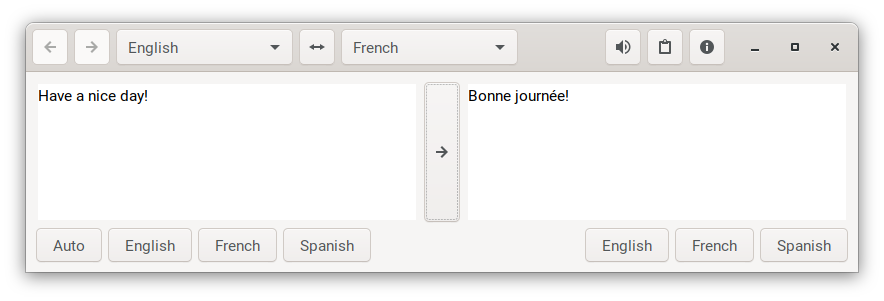
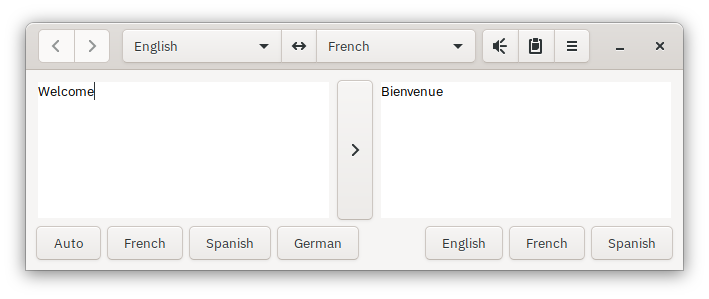
Many improvements, fixes, etc
- ButtonBoxes where appropriate
- Better widget positioning in HeaderBar
- About dialog is now a proper modal window
- Made Gnabel a proper GtkApplication
- PopoverMenu to replace current About button and follow GNOME HIG
- Fix icons again
- Remove deprecated VBoxes and HBoxes, replaced by Boxes
- Fix translation button sensitivity issue
- Add description in about window
- Some code in preparation for more

Changed region(s): [[0.0, 0.0903, 0.9929, 0.903], [0.4654, 0.3913, 0.5275, 0.6923], [0.4654, 0.2709, 0.6516, 0.3612]]

diff --git a/src/gnabel.py b/src/gnabel.py
@@ -8,7 +8,8 @@ from io import BytesIO
 
 import gi
 gi.require_version("Gtk", "3.0")
-from gi.repository import Gtk, Gdk, GLib
+gi.require_version("Gdk", "3.0")
+from gi.repository import Gio, GLib, Gdk, Gtk
 
 from googletrans import LANGUAGES, Translator
 from gtts import gTTS, lang
@@ -24,6 +25,25 @@ ButtonLength = 65  # length of language buttons
 ButtonNumLanguages = 3  # number of language buttons
 XdgConfigHome = GLib.get_user_config_dir()
 SettingsFile = os.path.join(XdgConfigHome, 'gnabel', 'settings.json')
+
+MenuBuilder = """
+<?xml version="1.0" encoding="UTF-8"?>
+<interface>
+    <menu id="app-menu">
+        <section>
+            <attribute name="id">help-section</attribute>
+            <item>
+                <attribute name="label" translatable="yes">About</attribute>
+                <attribute name="action">app.about</attribute>
+            </item>
+            <item>
+                <attribute name="label" translatable="yes">Quit</attribute>
+                <attribute name="action">app.quit</attribute>
+            </item>
+        </section>
+    </menu>
+</interface>
+"""
 
 
 # Main part
@@ -61,15 +81,16 @@ class MainWindow(Gtk.ApplicationWindow):
                 json.dump(Settings, outfile, indent=2)
 
     # Mount everything
-    def __init__(self):
+    def __init__(self, app):
         self.Translator = Translator()
-        Gtk.Window.__init__(self, title="GTranslate")
+        Gtk.Window.__init__(self, title="Gnabel", application=app)
         self.Clipboard = Gtk.Clipboard.get(Gdk.SELECTION_CLIPBOARD)  # This is only for the Clipboard button
         self.set_border_width(10)
         self.set_default_size(400, 200)
+        self.set_icon_name("com.github.gi-lom.gnabel")
 
-        MainWindow.Header(self)
-        MainWindow.Window(self)
+        self.Header()
+        self.Window()
 
         # Languages available for speech
         try:
@@ -92,8 +113,9 @@ class MainWindow(Gtk.ApplicationWindow):
         self.set_titlebar(HeaderBar)
 
         # Boxes creation
-        HeaderBox = Gtk.HBox(spacing=6)
-        OptionsBox = Gtk.HBox(spacing=6)
+        HeaderBox = Gtk.Box(spacing=6, orientation=Gtk.Orientation.HORIZONTAL)
+        OptionsBox = Gtk.ButtonBox(orientation=Gtk.Orientation.HORIZONTAL)
+        OptionsBox.set_layout(Gtk.ButtonBoxStyle.EXPAND)
 
         HeaderBar.pack_start(HeaderBox)
         HeaderBar.pack_end(OptionsBox)
@@ -110,6 +132,12 @@ class MainWindow(Gtk.ApplicationWindow):
         self.Forward.set_tooltip_text("Next translation")
         self.Forward.set_sensitive(False)
         self.Forward.connect("clicked", self.UIForward)
+
+        ### Button box for history navigation buttons
+        HistoryButtonBox = Gtk.ButtonBox(orientation=Gtk.Orientation.HORIZONTAL)
+        HistoryButtonBox.set_layout(Gtk.ButtonBoxStyle.EXPAND)
+        HistoryButtonBox.pack_start(self.Return, True, True, 0)
+        HistoryButtonBox.pack_start(self.Forward, True, True, 0)
 
         ### First language
         FirstLanguageList = Gtk.ListStore(str)
@@ -139,6 +167,14 @@ class MainWindow(Gtk.ApplicationWindow):
         self.SecondLanguageCombo.set_active(self.LangCode.index(self.Settings['Languages'][1][0]))
         self.SecondLanguageCombo.connect("changed", self.HistoryRightLanUpdate)
 
+        ### Button box for history navigation buttons
+        LanguageButtonBox = Gtk.ButtonBox(orientation=Gtk.Orientation.HORIZONTAL)
+        LanguageButtonBox.set_layout(Gtk.ButtonBoxStyle.EXPAND)
+        LanguageButtonBox.set_homogeneous(False)
+        LanguageButtonBox.pack_start(self.FirstLanguageCombo, True, True, 0)
+        LanguageButtonBox.pack_start(Switch, True, False, 0)
+        LanguageButtonBox.pack_start(self.SecondLanguageCombo, True, True, 0)
+
         ### Voice
         Voice = Gtk.Button.new_from_icon_name("audio-speakers-symbolic", Gtk.IconSize.BUTTON)
         Voice.set_tooltip_text("Reproduce")
@@ -149,38 +185,40 @@ class MainWindow(Gtk.ApplicationWindow):
         ClipboardButton.set_tooltip_text("Copy to Clipboard")
         ClipboardButton.connect("clicked", self.UIPaperclip)
 
-        ### About button
-        About = Gtk.Button.new_from_icon_name("help-about-symbolic", Gtk.IconSize.BUTTON)
-        About.set_tooltip_text("About")
-        About.connect("clicked", self.UIAbout)
+        ### Menu button
+        Builder = Gtk.Builder.new_from_string(MenuBuilder, -1) 
+        Menu = Builder.get_object("app-menu")
+        MenuButton = Gtk.MenuButton()
+        MenuButton.set_direction(Gtk.ArrowType.NONE)
+        MenuPopover = Gtk.Popover.new_from_model(MenuButton, Menu)
+        MenuButton.set_popover(MenuPopover)
 
         # Mount buttons
         ### Left side
-        HeaderBox.pack_start(self.Return, True, True, 0)
-        HeaderBox.pack_start(self.Forward, True, True, 0)
-        HeaderBar.pack_start(self.FirstLanguageCombo)
-        HeaderBar.pack_start(Switch)
-        HeaderBar.pack_start(self.SecondLanguageCombo)
+        HeaderBar.pack_start(HistoryButtonBox)
+
+        ### Center
+        HeaderBar.set_custom_title(LanguageButtonBox)
 
         ### Right side
         OptionsBox.pack_start(Voice, True, True, 0)
         OptionsBox.pack_start(ClipboardButton, True, True, 0)
-        OptionsBox.pack_start(About, True, True, 0)
+        OptionsBox.pack_start(MenuButton, True, True, 0)
 
     # Window
     def Window(self):
         # Boxes
-        Box = Gtk.VBox(spacing=6)
+        Box = Gtk.Box(spacing=6, orientation=Gtk.Orientation.VERTICAL)
         self.add(Box)
 
-        UpperBox = Gtk.HBox(spacing=6)
-        LowerBox = Gtk.HBox(spacing=6)
+        UpperBox = Gtk.Box(spacing=6, orientation=Gtk.Orientation.HORIZONTAL)
+        LowerBox = Gtk.Box(spacing=6, orientation=Gtk.Orientation.HORIZONTAL)
         Box.pack_start(UpperBox, True, True, 0)
         Box.pack_end(LowerBox, False, False, 0)
 
         # Left side
         ### Language box
-        LanLeftBox = Gtk.HBox(spacing=6)
+        LanLeftBox = Gtk.Box(spacing=6, orientation=Gtk.Orientation.HORIZONTAL)
         LanL0 = Gtk.Button.new_with_label("Auto")
         LanL0.set_property("width-request", 65)
         LanLeftBox.pack_start(LanL0, False, False, 0)
@@ -215,14 +253,14 @@ class MainWindow(Gtk.ApplicationWindow):
         # Central part
         ### The button that starts the translation
         self.TransStart = Gtk.Button.new_from_icon_name("go-next-symbolic", Gtk.IconSize.BUTTON)
-        self.TransStart.set_tooltip_text("Hint: you can press 'Enter' to translate. Press 'Alt+Enter' to add a backspace in the text")
-        self.TransStart.set_sensitive(True)
+        self.TransStart.set_tooltip_text("Hint: you can press 'Ctrl+Enter' to translate.")
+        self.TransStart.set_sensitive(self.LeftBuffer.get_char_count() != 0)
         self.TransStart.connect("clicked", self.Translation)
         UpperBox.pack_start(self.TransStart, False, False, 0)
 
         # Right side
         ### Language box
-        LanRightBox = Gtk.HBox(spacing=6)
+        LanRightBox = Gtk.Box(spacing=6, orientation=Gtk.Orientation.HORIZONTAL)
         self.LanRightButtons = []
         for i in range(ButtonNumLanguages):
             self.LanRightButtons.append(Gtk.Button())
@@ -312,13 +350,14 @@ class MainWindow(Gtk.ApplicationWindow):
             SoundToPlay = AudioSegment.from_file(FileToPlay, format="mp3")
             play(SoundToPlay)
 
-    def UIAbout(self, button):
-        AboutText = Gtk.AboutDialog()
+    def UIAbout(self, action, param):
+        AboutText = Gtk.AboutDialog(transient_for=self, modal=True)
         AboutText.set_program_name("Gnabel")
+        AboutText.set_comments("A translation app for GTK environments based on Google Translate.")
         AboutText.set_license_type(Gtk.License(3))
         AboutText.set_website("https://github.com/gi-lom/gnabel")
         AboutText.set_website_label("Github page")
-        AboutText.set_logo_icon_name("gnabel")
+        AboutText.set_logo_icon_name("com.github.gi-lom.gnabel")
         AboutText.connect('response', lambda dialog, response: dialog.destroy())
         AboutText.show()
 
@@ -337,9 +376,8 @@ class MainWindow(Gtk.ApplicationWindow):
                 GLib.idle_add(self.Translation, button)
                 return Gdk.EVENT_STOP
 
-        self.TransStart.set_sensitive(self.LeftBuffer.get_char_count() != 0)
-
     def TextChanged(self, buffer):
+        self.TransStart.set_sensitive(self.LeftBuffer.get_char_count() != 0)
         if os.environ.get("GNABEL_LIVE") == "1":
             GLib.idle_add(self.Translation, None)
 
@@ -477,9 +515,38 @@ class MainWindow(Gtk.ApplicationWindow):
                         json.dump(self.Settings, outfile, indent=2)
 
 
-# Final part, run the Window
-win = MainWindow()
-win.connect("destroy", Gtk.main_quit)
-win.set_default_icon_name('gnabel')
-win.show_all()
-Gtk.main()
+class Gnabel(Gtk.Application):
+
+    def __init__(self):
+        Gtk.Application.__init__(self, application_id="com.github.gi_lom.gnabel")
+
+    def do_activate(self):
+
+        def setup_actions(window):
+            """Setup menu actions."""
+            QuitAction = Gio.SimpleAction.new('quit', None)
+            QuitAction.connect('activate', self.OnQuit)
+            self.add_action(QuitAction)
+
+            AboutAction = Gio.SimpleAction.new('about', None)
+            AboutAction.connect('activate', window.UIAbout)
+            self.add_action(AboutAction)
+
+        win = self.props.active_window
+        if not win:
+            win = MainWindow(self)
+            setup_actions(win)
+        win.show_all()
+
+    def do_startup(self):
+        Gtk.Application.do_startup(self)
+
+    def OnQuit(self, action, param):
+        """Quit the application from the menu."""
+        self.quit()
+
+
+# Final part, run the Application
+app = Gnabel()
+exit_status = app.run(sys.argv)
+sys.exit(exit_status)
